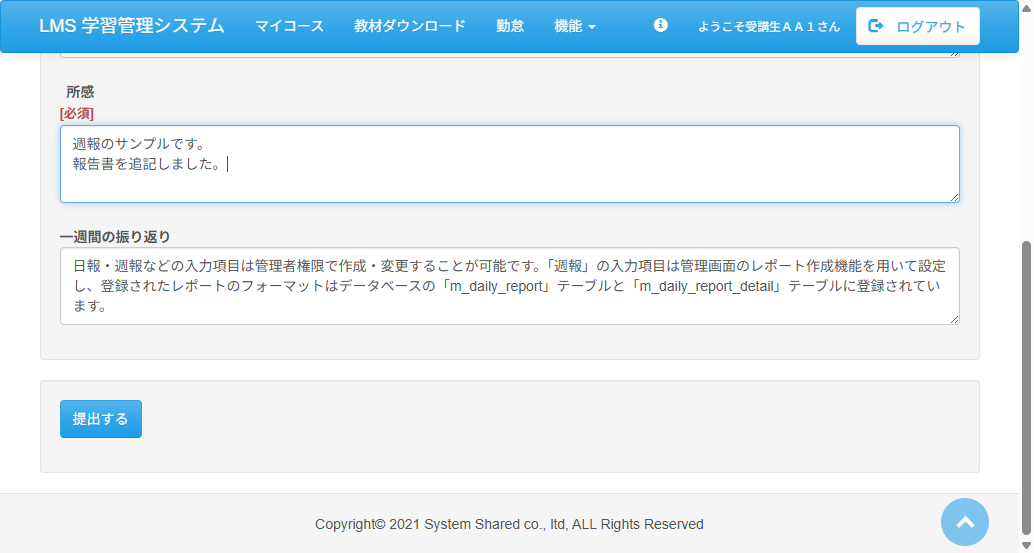
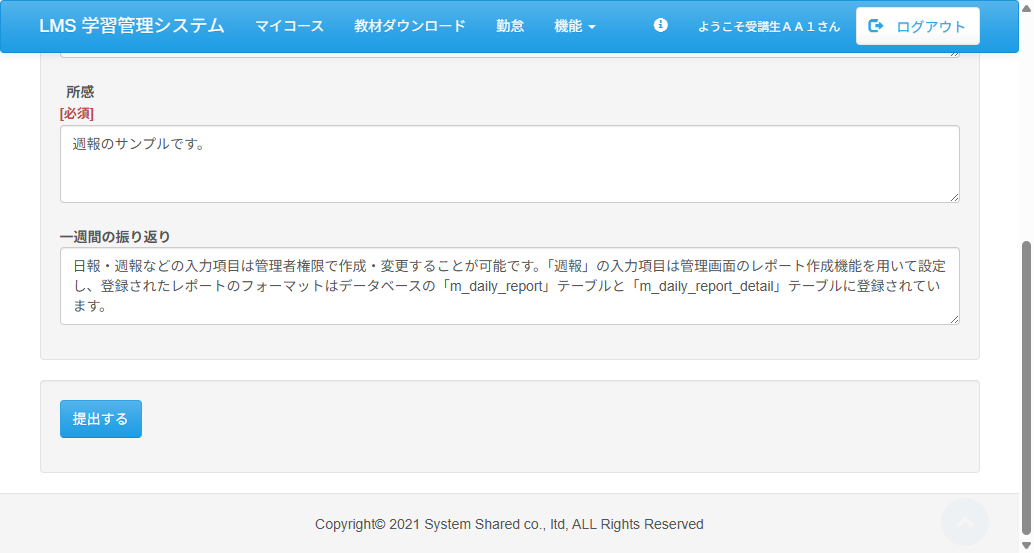
fix:Case08.java 受講生 レポート修正(週報) 正常系テストコードの修正
test5にて変更前のエビデンス取得がなかったため追記した。

fix:結合テスト仕様書の修正
レビュー時の下記、指摘箇所を修正
・ケース08のテストNo05にて、週報は入力項目が複数あります。どの項目に対して変更するか明確にしましょう。
　→「所感」に明記するよう修正済み
・Case08_test05_1.pngの内容がテスト仕様書と矛盾しています。
　→仕様書の内容をエビデンスに合わせて修正済み

diff --git a/test_code_creation_name/src/test/java/jp/co/sss/lms/ct/f03_report/Case08.java b/test_code_creation_name/src/test/java/jp/co/sss/lms/ct/f03_report/Case08.java
@@ -116,9 +116,9 @@ public class Case08 {
 		// TODO ここに追加
 		//指定位置までスクロール
 		scrollBy("1000");
-		
+
 		getEvidence(new Object() {
-		},"1");
+		}, "1");
 
 		//「提出済み週報【デモ】を確認する」ボタンを押下
 		final WebElement DailyReportcheck = webDriver
@@ -134,7 +134,7 @@ public class Case08 {
 		assertEquals("週報【デモ】 2022年10月2日", report);
 
 		getEvidence(new Object() {
-		},"2");
+		}, "2");
 	}
 
 	@Test
@@ -144,6 +144,10 @@ public class Case08 {
 		// TODO ここに追加
 		//指定位置までスクロール
 		scrollBy("1000");
+		
+		//修正前のエビデンス取得
+		getEvidence(new Object() {
+		}, "1");
 
 		//所感を修正
 		final WebElement ReportEditing = webDriver.findElement(By.cssSelector("#content_1"));
@@ -156,7 +160,7 @@ public class Case08 {
 		ReportEditing.sendKeys("報告書を追記しました。");
 
 		getEvidence(new Object() {
-		}, "1");
+		}, "2");
 
 		submit.click();
 
@@ -168,7 +172,7 @@ public class Case08 {
 		assertEquals("セクション詳細", section);
 
 		getEvidence(new Object() {
-		}, "2");
+		}, "3");
 
 	}
 
@@ -201,9 +205,9 @@ public class Case08 {
 		// TODO ここに追加
 		//指定位置までスクロール
 		scrollBy("1000");
-		
+
 		getEvidence(new Object() {
-		},"1");
+		}, "1");
 
 		//該当レポートの「詳細」ボタンを押下
 		final WebElement ReportDetail = webDriver.findElement(By.xpath(
@@ -222,7 +226,7 @@ public class Case08 {
 		assertTrue(EdtingCheak);
 
 		getEvidence(new Object() {
-		},"2");
+		}, "2");
 	}
 
 }
